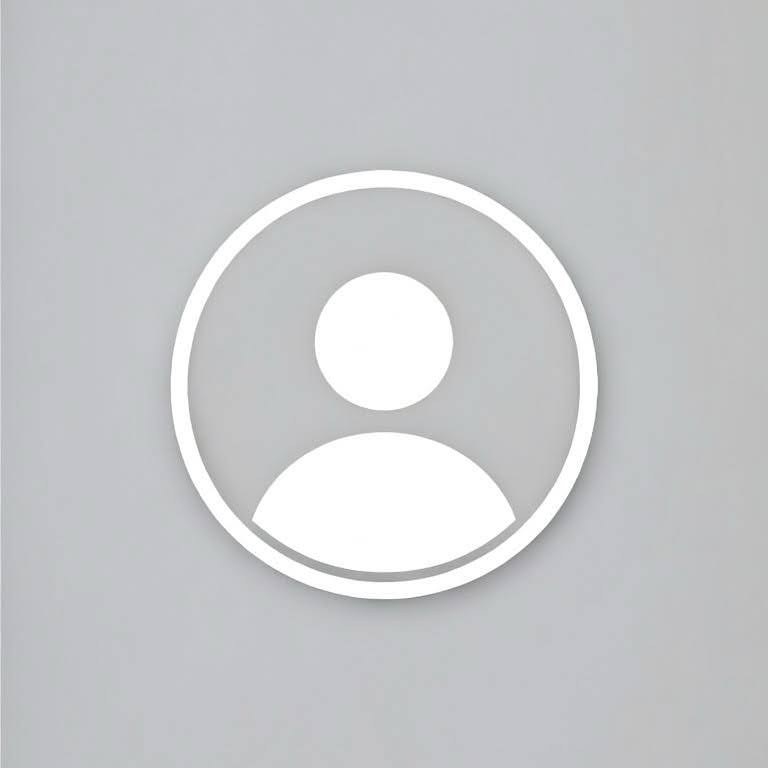
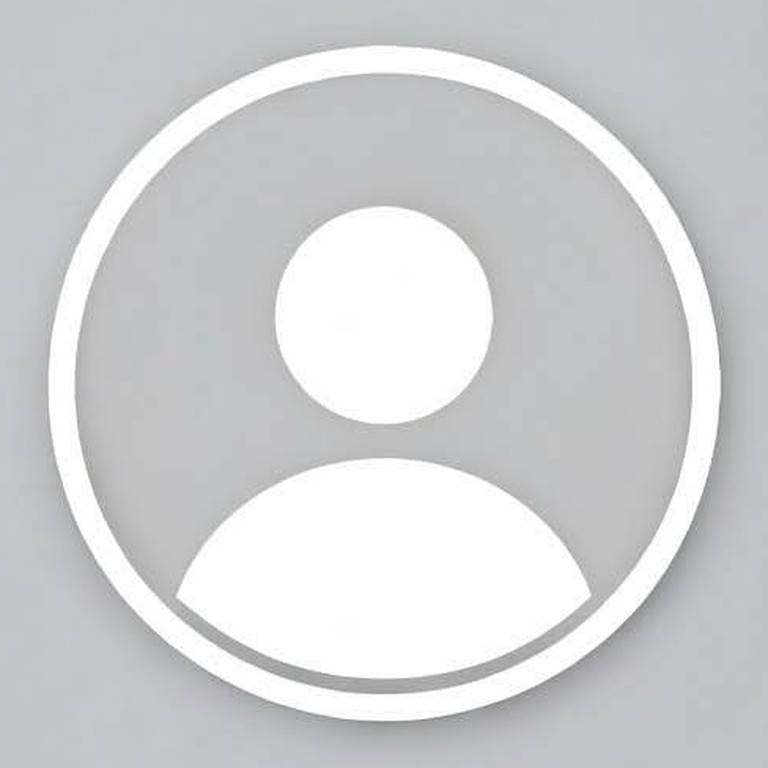
Show the shared default face and use even Chinese header pills.
The grey empty-name disc used display:flex so hidden never applied; All/List/heart become 全部/列表/最愛.

Changed region(s): [[0.0625, 0.0625, 0.9688, 0.9688]]

diff --git a/tags.js b/tags.js
@@ -6,8 +6,6 @@
     '<svg viewBox="0 0 36 36" aria-hidden="true"><circle cx="18" cy="18" r="18"/><path d="M15.2 11.5L22.5 18l-7.3 6.5"/></svg>';
   const MAG =
     '<svg viewBox="0 0 24 24" aria-hidden="true"><circle cx="10.5" cy="10.5" r="6.2" fill="none" stroke="currentColor" stroke-width="1.8"/><path d="M15.2 15.2L20 20" fill="none" stroke="currentColor" stroke-width="1.8" stroke-linecap="round"/></svg>';
-  const HEART =
-    '<svg viewBox="0 0 24 24" aria-hidden="true"><path d="M12 20C10.5 18.4 7.3 15.8 5.4 11.9C4 9.1 5.2 6 8.4 6c1.8 0 3 1.1 3.6 2.2C12.6 7.1 13.8 6 15.6 6c3.2 0 4.4 3.1 3 5.9C16.7 15.8 13.5 18.4 12 20Z"/></svg>';
   const CHEV =
     '<svg viewBox="0 0 24 24" aria-hidden="true"><path d="M9 6l6 6-6 6" fill="none" stroke="currentColor" stroke-width="2.2" stroke-linecap="round" stroke-linejoin="round"/></svg>';
   let person = "";
@@ -614,12 +612,8 @@
     const btn = document.createElement("button");
     btn.type = "button";
     btn.dataset.mode = id;
-    btn.className = "mode-btn" + (id === "find" ? " mode-find" : "") + (id === "fav" ? " mode-heart" : "");
-    if (id === "fav") {
-      btn.innerHTML = HEART;
-      btn.setAttribute("aria-label", "愛心");
-      if (modeActive === "fav") btn.classList.add("is-on");
-    } else if (id === "find") {
+    btn.className = "mode-btn" + (id === "find" ? " mode-find" : "");
+    if (id === "find") {
       btn.innerHTML = MAG + "<span>" + (selected.length ? "加標籤？" : "找標籤？") + "</span>";
       if (finding) btn.classList.add("is-on");
     } else {
@@ -679,9 +673,9 @@
     board.innerHTML = "";
     const bar = document.createElement("div");
     bar.className = "mode-bar";
-    bar.appendChild(modeBtn("fav", "愛心"));
-    bar.appendChild(modeBtn("all", "All"));
-    bar.appendChild(modeBtn("list", "List"));
+    bar.appendChild(modeBtn("fav", "最愛"));
+    bar.appendChild(modeBtn("all", "全部"));
+    bar.appendChild(modeBtn("list", "列表"));
     bar.appendChild(modeBtn("find", selected.length ? "加標籤？" : "找標籤？"));
     board.appendChild(bar);
     board.classList.toggle("is-finding", finding);

diff --git a/index.html b/index.html
@@ -25,7 +25,7 @@
 <link rel="icon" href="./rose-two.svg" type="image/svg+xml"/>
 <link rel="apple-touch-icon" href="./icons/rose-two-180.png"/>
 <link rel="stylesheet" href="./vendor/photoswipe/photoswipe.css"/>
-<link rel="stylesheet" href="./app.css?v=85"/>
+<link rel="stylesheet" href="./app.css?v=86"/>
 <script src="./config.js?v=1787650964"></script>
 <script>
 (function () {
@@ -136,7 +136,7 @@
         <div class="cab-cover">
           <div class="cab-ring" aria-hidden="true"></div>
           <div class="cab-face">
-            <img id="face-img" alt="" hidden/>
+            <img id="face-img" alt="" src="./face-default.jpg?v=2"/>
             <div class="cab-empty-name" id="face-empty" hidden></div>
             <span class="cab-shield" aria-hidden="true"></span>
           </div>
@@ -182,9 +182,9 @@
 <script src="./vendor/photoswipe/photoswipe-lightbox.umd.min.js"></script>
 <script src="./rose-two.js?v=22"></script>
 <script src="./gallery.js?v=62"></script>
-<script src="./tags.js?v=70"></script>
+<script src="./tags.js?v=71"></script>
 <script src="./gate.js?v=14"></script>
-<script src="./door.js?v=67"></script>
+<script src="./door.js?v=68"></script>
 <script>
 if ("serviceWorker" in navigator) {
   navigator.serviceWorker.register("./sw.js?v=45");

diff --git a/app.css b/app.css
@@ -803,6 +803,9 @@ button.apple-next path {
   font-weight: 600;
   color: var(--mute);
 }
+.cab-empty-name[hidden] {
+  display: none !important;
+}
 .ins-icon {
   position: relative;
   width: 40px;
@@ -1212,19 +1215,6 @@ html.has-rail .tag-board {
   color: #fff;
   box-shadow: none;
   background: linear-gradient(120deg, #fa7e1e 0%, #d62976 48%, #962fbf 100%);
-}
-.mode-btn.mode-heart {
-  padding: 8px 11px;
-  color: #d62976;
-}
-.mode-btn.mode-heart svg {
-  width: 16px;
-  height: 16px;
-  display: block;
-  fill: currentColor;
-}
-.mode-btn.mode-heart.is-on {
-  color: #fff;
 }
 button.tag-apply {
   position: relative;

diff --git a/door.js b/door.js
@@ -208,7 +208,7 @@
         faceImg.src = api("/cover?person=" + encodeURIComponent(p.id) + "&v=" + (p.cover_rev || 0));
       } else {
         faceImg.alt = p.display_name || "";
-        faceImg.src = "./face-default.jpg";
+        faceImg.src = "./face-default.jpg?v=2";
       }
       faceImg.hidden = false;
     }
